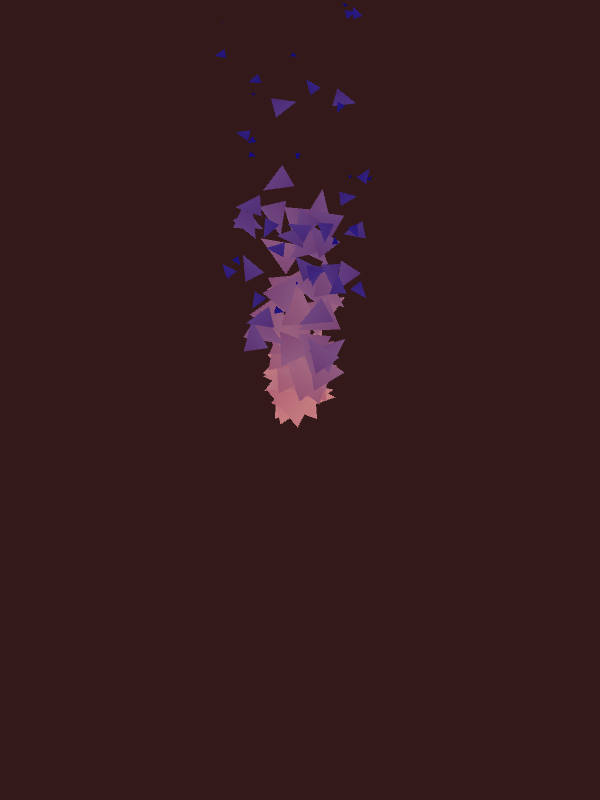
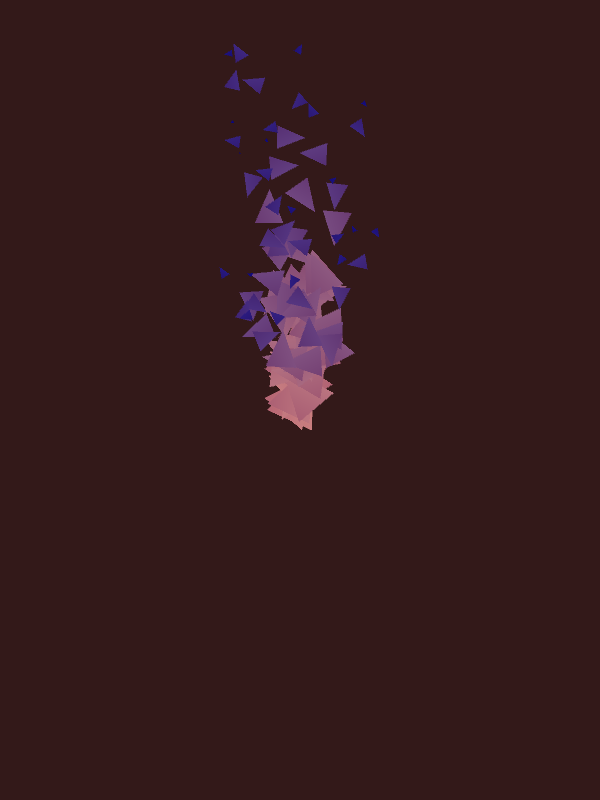
re added gif and readme

Changed region(s): [[0.36, 0.0938, 0.63, 0.5312], [0.36, 0.0625, 0.45, 0.125], [0.57, 0.0, 0.6, 0.0312]]

diff --git a/README.md b/README.md
@@ -1,0 +1,30 @@
+## Pira 🔥
+
+Small experimental library using opengl and rust.
+
+![picture](images/pira_d.gif)
+
+### Examples:
+
+to build one of the examples run:
+`cargo run --example {name}`
+
+to run all the examples as test and save an image run:
+`cargo test --examples -- --test-threads=1`
+
+#### Instancing:
+![picture](test_images/instances.png)
+
+
+#### textured quad:
+![picture](test_images/textured_quad.png)
+
+
+#### Particles:
+![picture](test_images/particles.png)
+
+
+#### Todo's
+1. create buffer objects other with data types different then f32's, use a Vec and enums to specify default attribs, like position and color
+2. more shader modes.. 
+3. use multiple vbo's on vao, instead of one big large buffer ( relates to #1 )
